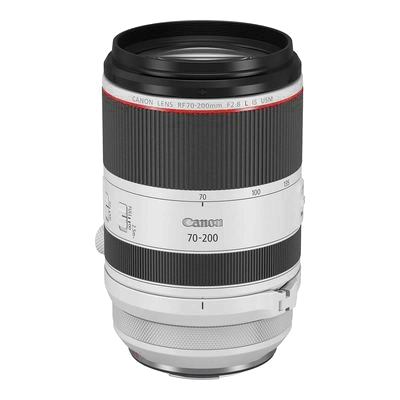
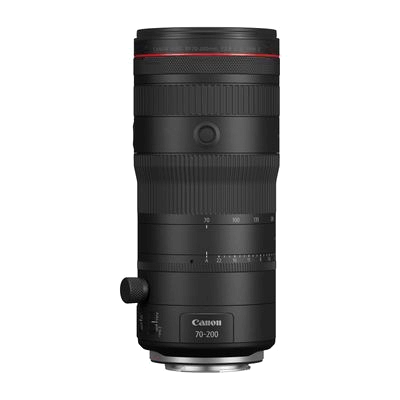
Fotos: 6 productos que mostraban otro modelo o algo que no viene (auditoría 19/10)
Cada una cambia por la foto del producto que se vende, con el mismo
tratamiento que herramientas/bajar-fotos.py: fondo recortado, 840 px dentro de
900x900 blanco, JPEG calidad 90. Las chicas y las sin fondo se rehicieron con
herramientas/miniaturas.py. Se miró cada una contra el producto (insignia,
forma, color, rótulo del lente).

- AT-0170 · Nikon ZR (CAM-NIK-009): mostraba un Z6 II. Ahora el ZR solo
  cuerpo, de frente. Sala de prensa de Nikon USA
  (https://www.nikonusa.com/press-room/zr):
  https://images.contentstack.io/v3/assets/blt0e5ec1de4817c440/blt695cbc287738ff4c/68c2b80de2fb9a4d09918b3c/ZR_front.jpg
- AT-0163 · Nikon Z6 II Body (CAM-NIK-004): tenía el 24-70 puesto. Ahora
  solo el cuerpo. Sala de prensa de Nikon USA
  (https://www.nikonusa.com/press-room/z7ii-z6ii):
  https://images.contentstack.io/v3/assets/blt0e5ec1de4817c440/blt5783b0f78635d876/65e66490f89dde00ef6b0e27/Z6II_front.jpg
- AT-0257-01 · Canon RF 70-200mm F2.8 L IS USM Z negro (LEN-CAN-035): era
  el RF 70-200 blanco de la generación anterior. Foto de Canon, la de
  https://shop.canon.ca/en_ca/p/rf70-200mm-f2-8-l-is-usm-z :
  https://s7d1.scene7.com/is/image/canon/6593C002_rf70-200-f2.8-l-is-usm-z-black_primary?fmt=png-alpha&wid=1000&hei=1000
- AT-0381 · Sony FE PZ 16-35mm F4 G (LEN-SON-015): era el Zeiss FE 16-35
  F4 ZA. Foto de Sony:
  https://sony.scene7.com/is/image/sonyglobalsolutions/SELP1635G-1?fmt=jpeg&qlt=95&wid=1320&hei=1320
[…]

diff --git a/p/LEN-SON-015.html b/p/LEN-SON-015.html
@@ -13,8 +13,8 @@
 <meta property="og:title" content="Sony FE PZ 16-35mm F/4 G">
 <meta property="og:url" content="https://catalogo.advancetecno.com.ar/p/LEN-SON-015.html">
 <meta property="og:image" content="https://catalogo.advancetecno.com.ar/fotos/AT-0381.jpg">
-<meta property="og:image:width" content="1200">
-<meta property="og:image:height" content="1200">
+<meta property="og:image:width" content="900">
+<meta property="og:image:height" content="900">
 <meta property="og:image:alt" content="Sony FE PZ 16-35mm F/4 G">
 <meta name="twitter:card" content="summary">
 <meta name="twitter:title" content="Sony FE PZ 16-35mm F/4 G">
@@ -39,7 +39,7 @@
 </head>
 <body>
 <main>
-  <img src="../fotos/AT-0381.jpg" alt="Sony FE PZ 16-35mm F/4 G" width="1200" height="1200">
+  <img src="../fotos/AT-0381.jpg" alt="Sony FE PZ 16-35mm F/4 G" width="900" height="900">
   <div class="t">
     <h1>Sony FE PZ 16-35mm F/4 G</h1>
     <a href="../#p=LEN-SON-015&amp;s=LEN-SON-1635F4PZ-000-000-SONYE">Ver el producto en el catálogo</a>

diff --git a/p/CAM-NIK-009.html b/p/CAM-NIK-009.html
@@ -13,8 +13,8 @@
 <meta property="og:title" content="Nikon ZR 6K Cinema">
 <meta property="og:url" content="https://catalogo.advancetecno.com.ar/p/CAM-NIK-009.html">
 <meta property="og:image" content="https://catalogo.advancetecno.com.ar/fotos/AT-0170.jpg">
-<meta property="og:image:width" content="1200">
-<meta property="og:image:height" content="1200">
+<meta property="og:image:width" content="900">
+<meta property="og:image:height" content="900">
 <meta property="og:image:alt" content="Nikon ZR 6K Cinema">
 <meta name="twitter:card" content="summary">
 <meta name="twitter:title" content="Nikon ZR 6K Cinema">
@@ -39,7 +39,7 @@
 </head>
 <body>
 <main>
-  <img src="../fotos/AT-0170.jpg" alt="Nikon ZR 6K Cinema" width="1200" height="1200">
+  <img src="../fotos/AT-0170.jpg" alt="Nikon ZR 6K Cinema" width="900" height="900">
   <div class="t">
     <h1>Nikon ZR 6K Cinema</h1>
     <a href="../#p=CAM-NIK-009&amp;s=CAM-NIK-ZR-000-000-BODY">Ver el producto en el catálogo</a>

diff --git a/p/LEN-SIG-020.html b/p/LEN-SIG-020.html
@@ -15,8 +15,8 @@
 <meta property="og:description" content="Nikon F">
 <meta property="og:url" content="https://catalogo.advancetecno.com.ar/p/LEN-SIG-020.html">
 <meta property="og:image" content="https://catalogo.advancetecno.com.ar/fotos/AT-0344.jpg">
-<meta property="og:image:width" content="1200">
-<meta property="og:image:height" content="1200">
+<meta property="og:image:width" content="900">
+<meta property="og:image:height" content="900">
 <meta property="og:image:alt" content="Sigma 85mm F/1.4 Ex DG HSM · Nikon F">
 <meta name="twitter:card" content="summary">
 <meta name="twitter:title" content="Sigma 85mm F/1.4 Ex DG HSM">
@@ -42,7 +42,7 @@
 </head>
 <body>
 <main>
-  <img src="../fotos/AT-0344.jpg" alt="Sigma 85mm F/1.4 Ex DG HSM · Nikon F" width="1200" height="1200">
+  <img src="../fotos/AT-0344.jpg" alt="Sigma 85mm F/1.4 Ex DG HSM · Nikon F" width="900" height="900">
   <div class="t">
     <h1>Sigma 85mm F/1.4 Ex DG HSM</h1>
     <p>Nikon F</p>
